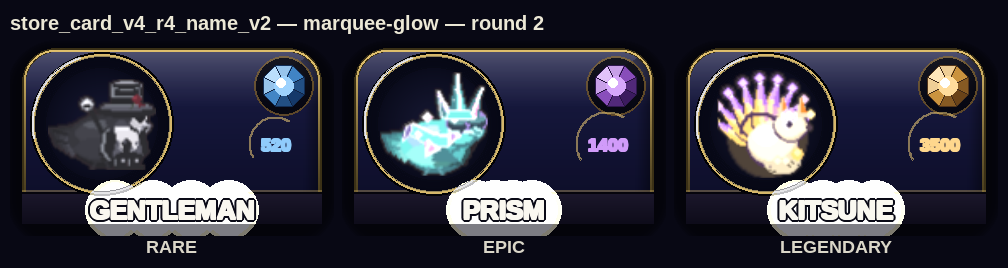
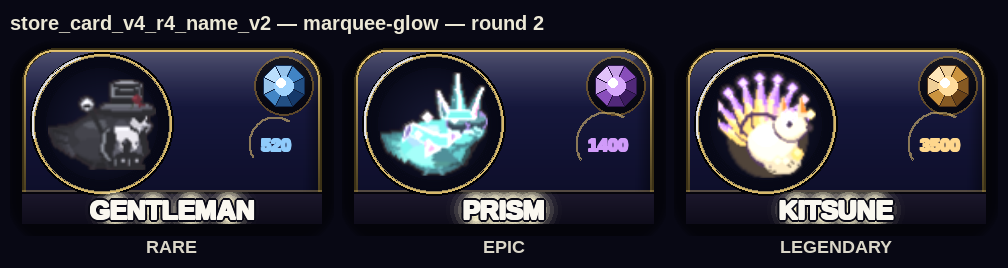
Add store_card_v4_r4_name_v2 marquee-glow round 2
Claude-Session: https://claude.ai/code/session_011726ot8uBSmurQVaEkGY6K

Changed region(s): [[0.0615, 0.6567, 0.2768, 0.8955], [0.7381, 0.6567, 0.9226, 0.8955], [0.4306, 0.6567, 0.5843, 0.8955]]

diff --git a/tools/_store_card_v4_r4_name_v2_marquee_glow_r2.py b/tools/_store_card_v4_r4_name_v2_marquee_glow_r2.py
@@ -22,7 +22,22 @@ _INSET = 6
 R = 36
 
 
-def _name_marquee_glow(big, name, cx, cy, max_w):
+def _warm_halo(scratch, cx, cy, radius, color, peak, layers=8):
+    # Source-over (not additive) feathered disc: overlapping lamps deepen the
+    # alpha toward opaque but the RGB never leaves `color`, so a hot marquee
+    # cluster stays warm ivory instead of clipping to dead white the way
+    # stacked BLEND_ADD passes do — which is what kills R-B on the halo.
+    for i in range(layers, 0, -1):
+        r = int(radius * i / layers)
+        a = int(peak * (1 - (i - 1) / layers) ** 1.8)
+        if r <= 0 or a <= 0:
+            continue
+        g = pygame.Surface((r * 2 + 2, r * 2 + 2), pygame.SRCALPHA)
+        pygame.draw.circle(g, (*color, a), (r + 1, r + 1), r)
+        scratch.blit(g, (cx - r - 1, cy - r - 1))
+
+
+def _name_marquee_glow(big, name, cx, cy, max_w, rect, plinth_top):
     # Backlit theatre marquee: lamp-white halo behind cream letters so the word
     # reads as lit from behind. Ivory is deliberately warm but rarity-neutral so
     # the "lit lamp" reads identically on every tier — the light is the fixture,
@@ -42,16 +57,28 @@ def _name_marquee_glow(big, name, cx, cy, max_w):
     # word and the bloom never crosses the card edge.
     spread = int(gw // 2 * 0.7)
     xs = (cx - spread, cx - spread // 3, cx + spread // 3, cx + spread)
+    # Build the whole halo on a scratch layer so it can be clipped to the band
+    # before it touches the card — otherwise the above-cap bleed spills over the
+    # plinth seam into the gem/thumb region.
+    halo = pygame.Surface(big.get_size(), pygame.SRCALPHA)
     # Centreline lamps: strong + wide so the halo actually reads against the
     # near-black band (r1 at alpha 80 / r=11 was invisible).
     for fx in xs:
-        soft_glow(big, fx, cy, m(15), IVORY, 160, layers=8)
+        _warm_halo(halo, fx, cy, m(15), IVORY, 160, layers=8)
     # Bleed the bloom above and below cap-height so warm light escapes AROUND
     # the letters — a marquee reads by the halo in the clear band, not by a hot
     # spot the type body sits on and occludes.
     for fx in xs:
-        soft_glow(big, fx, cy - m(5), m(9), IVORY, 80, layers=8)
-        soft_glow(big, fx, cy + m(5), m(9), IVORY, 80, layers=8)
+        _warm_halo(halo, fx, cy - m(5), m(9), IVORY, 80, layers=8)
+        _warm_halo(halo, fx, cy + m(5), m(9), IVORY, 80, layers=8)
+    # Clip the halo to the band interior: a straight cut at the plinth seam kills
+    # any spill above it, and the horizontal bound keeps the ends off the card
+    # edge. The band's rounded bottom sits well clear of the centred word.
+    clip = pygame.Surface(big.get_size(), pygame.SRCALPHA)
+    pygame.draw.rect(clip, (255, 255, 255, 255),
+                     (rect.left, plinth_top, rect.w, rect.bottom - plinth_top))
+    halo.blit(clip, (0, 0), special_flags=pygame.BLEND_RGBA_MIN)
+    big.blit(halo, (0, 0))
     # No shadow — the halo is the atmosphere; tight dark keyline keeps the cream
     # type crisp against its own glow.
     plain_text(big, name, f, (cx, cy), CREAM, shadow_a=0,
@@ -106,7 +133,7 @@ def render_card(sid):
     cabochon_glass(big, cx, cy, m(R), tint=pal["gem"])
     facet_gem(big, rect.right - m(19), rect.y + m(19), m(GEM_R + 3), pal["gem"], pal["deep"])
     _simple_price(big, rect.right - m(23), rect.y + m(48), price, pal)
-    _name_marquee_glow(big, name.upper(), rect.centerx, rect.y + m(81), rect.w - m(26))
+    _name_marquee_glow(big, name.upper(), rect.centerx, rect.y + m(81), rect.w - m(26), rect, plinth_top)
     return big
 
 
